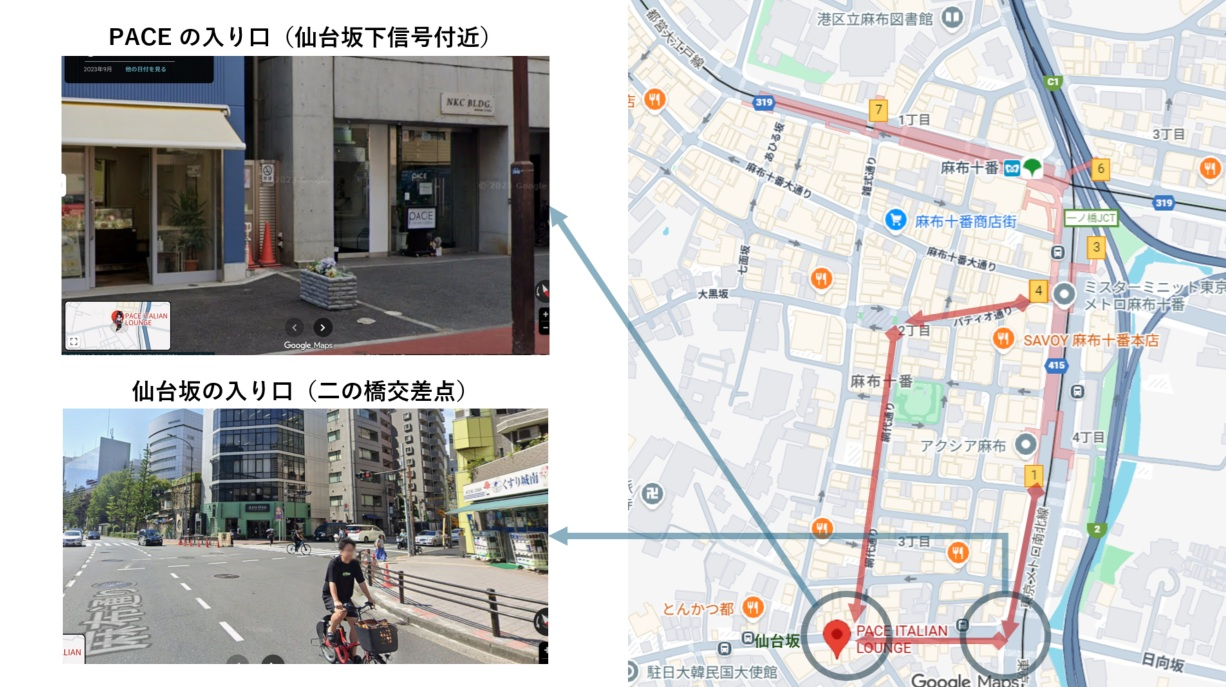
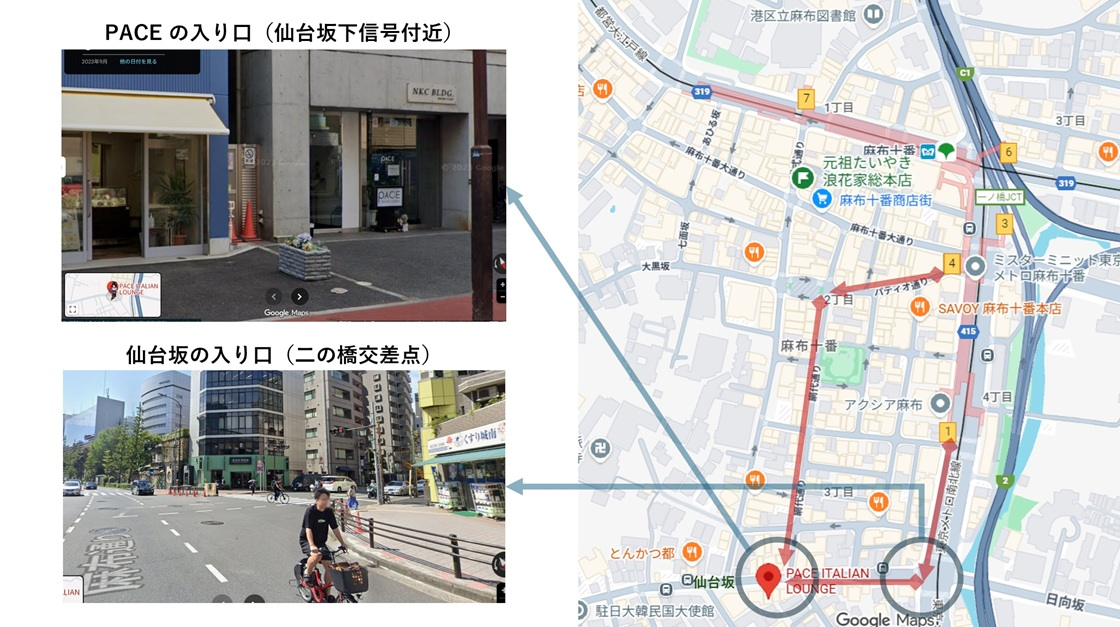
Add Naniwaya to the map

diff --git a/docs/events/20251122/index.html b/docs/events/20251122/index.html
@@ -63,7 +63,7 @@
     <a href="https://www.ozmall.co.jp/restaurant/3609/plan/611263/">https://www.ozmall.co.jp/restaurant/3609/plan/611263/</a>
     ・ 麻布十番駅1番出口 徒歩5分　
       → <a href="https://www.google.com/maps/place/PACE+ITALIAN+LOUNGE/@35.6524116,139.7321462,16z/data=!3m1!5s0x60188ba103cc3871:0x51338da6d8b32ae3!4m6!3m5!1s0x60188ba1022b0ebf:0x1df660d72e54220c!8m2!3d35.6524073!4d139.7347265!16s%2Fg%2F1ptzg3_sz?authuser=0&entry=ttu&g_ep=EgoyMDI1MTEwNC4xIKXMDSoASAFQAw%3D%3D">地図(Google Map)</a>
-      → <a href="../figs/pace-map.jpg">地図（ストリートビュー付き）</a>
+      → <a href="../figs/pace-map.jpg">地図（要所の写真付き）</a>
 
 </pre>
 </td>

diff --git a/docs/index.html b/docs/index.html
@@ -99,6 +99,7 @@
 <div class="ai-section">
 <h2>🚀 世の進運に先駆けん</h2>
 <pre>
+  ・ <a href="ci_initiative/naniwaya-taiyaki-example.html">AIに「たい焼きの上手な買い方」を聞いてみた</a>
   ・ <a href="ci_initiative/llm-presentation-draft.html">LLM（大規模言語モデル）とは何か（簡単バージョン）の原稿作成（by Copilot）</a>
   ・ <a href="ci_initiative/index.html">CI ― Collective Intelligence ― 構想</a>
 </pre>
